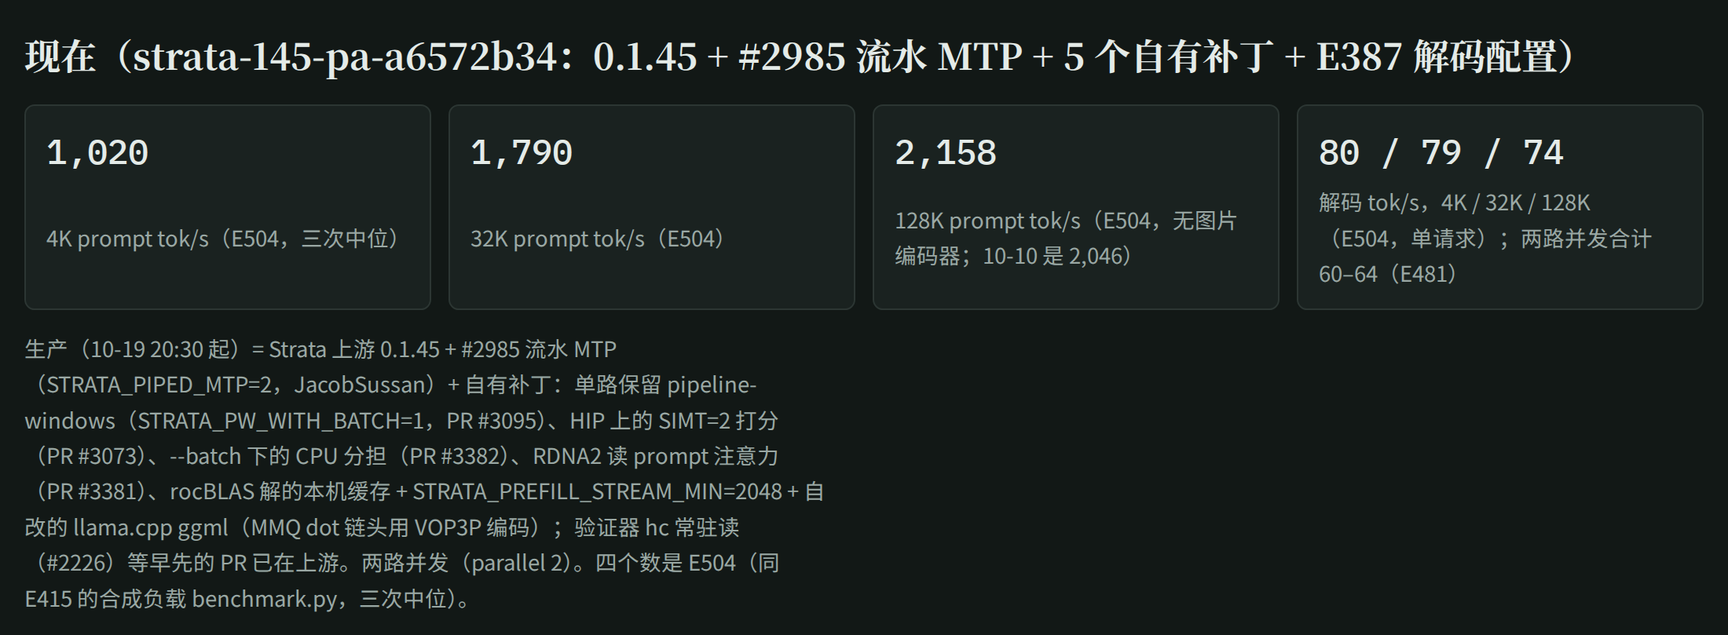
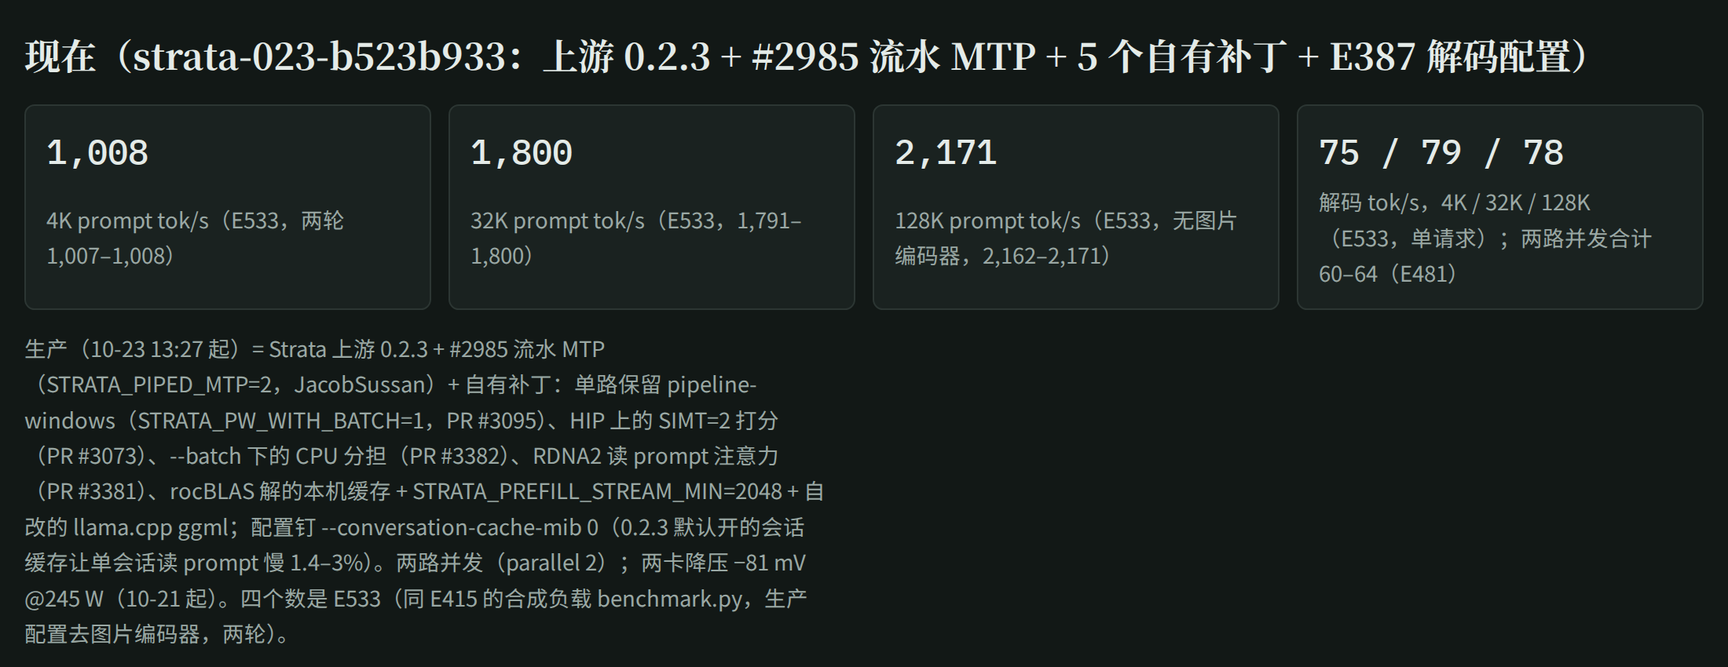
Now to 10-24: production on the 0.2.3 merge (strata-023-b523b933, E533), timeline 10-20..10-24; new section 5, one RX 6900 XT under Windows 11, with its step chart
- section 0 / the now cards / the speed chart: 0.2.1.3 (E516/E517), undervolt -81 mV (E523), 0.2.2 (E527), 0.2.3 with --conversation-cache-mib 0 (E533: 1,008 / 1,800 / 2,171, decode 75 / 79 / 78)
- section 5 (en / zh): WDDM per-submission cost (E541), the PCIe share (E538/E545/E547, #4007), the 8,192 chunk (E543/E548, #1630), copy events (E542/E544, #4005), the timer (#4006), VRAM reserve sweep (E553), the display, pictures (E554: the rdna2 package's GPU reader is built for gfx1200/1201 only), what did not help, mistakes
- docs/win1x-chart-*: the standard-benchmark runs of Strata PR #4012, step by step; index.html section and render target
- windows-rx6000/README.md: the GPU picture reader line

diff --git a/index.html b/index.html
@@ -73,20 +73,20 @@ code{font-family:var(--f-data);font-size:.92em}
 <body>
 <div class="wrap">
 <header>
-  <div class="eyebrow">AiBox · 2× RX 6900 XT · Qwen3.8-Flash-Next IQ3_S · 09-30 → 10-20</div>
+  <div class="eyebrow">AiBox · 2× RX 6900 XT · Qwen3.8-Flash-Next IQ3_S · 09-30 → 10-24</div>
   <h1>Flash-Next 调优时间线</h1>
   <p class="lede">同一个模型（IQ3_S）在这台机器上从 llama.cpp 换到 Strata，再一步步叠加改动。每一步写了当时为什么这么做和实测效果；虚线框是试过但没采用的方向。速度一律指双卡 layer split。</p>
 </header>
 
 <section>
-  <h2>现在（strata-145-pa-a6572b34：0.1.45 + #2985 流水 MTP + 5 个自有补丁 + E387 解码配置）</h2>
+  <h2>现在（strata-023-b523b933：上游 0.2.3 + #2985 流水 MTP + 5 个自有补丁 + E387 解码配置）</h2>
   <div class="now">
-    <div><b>1,020</b><small>4K prompt tok/s（E504，三次中位）</small></div>
-    <div><b>1,790</b><small>32K prompt tok/s（E504）</small></div>
-    <div><b>2,158</b><small>128K prompt tok/s（E504，无图片编码器；10-10 是 2,046）</small></div>
-    <div><b>80 / 79 / 74</b><small>解码 tok/s，4K / 32K / 128K（E504，单请求）；两路并发合计 60–64（E481）</small></div>
+    <div><b>1,008</b><small>4K prompt tok/s（E533，两轮 1,007–1,008）</small></div>
+    <div><b>1,800</b><small>32K prompt tok/s（E533，1,791–1,800）</small></div>
+    <div><b>2,171</b><small>128K prompt tok/s（E533，无图片编码器，2,162–2,171）</small></div>
+    <div><b>75 / 79 / 78</b><small>解码 tok/s，4K / 32K / 128K（E533，单请求）；两路并发合计 60–64（E481）</small></div>
   </div>
-  <p class="foot">生产（10-19 20:30 起）= Strata 上游 0.1.45 + #2985 流水 MTP（STRATA_PIPED_MTP=2，JacobSussan）+ 自有补丁：单路保留 pipeline-windows（STRATA_PW_WITH_BATCH=1，PR #3095）、HIP 上的 SIMT=2 打分（PR #3073）、--batch 下的 CPU 分担（PR #3382）、RDNA2 读 prompt 注意力（PR #3381）、rocBLAS 解的本机缓存 + STRATA_PREFILL_STREAM_MIN=2048 + 自改的 llama.cpp ggml（MMQ dot 链头用 VOP3P 编码）；验证器 hc 常驻读（#2226）等早先的 PR 已在上游。两路并发（parallel 2）。四个数是 E504（同 E415 的合成负载 benchmark.py，三次中位）。</p>
+  <p class="foot">生产（10-23 13:27 起）= Strata 上游 0.2.3 + #2985 流水 MTP（STRATA_PIPED_MTP=2，JacobSussan）+ 自有补丁：单路保留 pipeline-windows（STRATA_PW_WITH_BATCH=1，PR #3095）、HIP 上的 SIMT=2 打分（PR #3073）、--batch 下的 CPU 分担（PR #3382）、RDNA2 读 prompt 注意力（PR #3381）、rocBLAS 解的本机缓存 + STRATA_PREFILL_STREAM_MIN=2048 + 自改的 llama.cpp ggml；配置钉 --conversation-cache-mib 0（0.2.3 默认开的会话缓存让单会话读 prompt 慢 1.4–3%）。两路并发（parallel 2）；两卡降压 −81 mV @245 W（10-21 起）。四个数是 E533（同 E415 的合成负载 benchmark.py，生产配置去图片编码器，两轮）。</p>
 </section>
 
 <section>
@@ -111,6 +111,17 @@ code{font-family:var(--f-data);font-size:.92em}
   </div>
   <div class="panel"><div class="chart" id="modes"></div></div>
   <p class="foot">E388 / E388a，同一晚同一脚本，无图片编码器，每格 2 次取中位。单卡 16 GB 只装 ~4,500 个专家槽（命中 83%），解码压在 48–52；helper 让第二张卡只放专家，解码 66–75，prompt 仍是单卡速度；分层两项都提。helper 臂带 STRATA_HIP_ADAPT_KERNEL_COPY=1。</p>
+</section>
+
+<section>
+  <h2>Windows 单卡，一步步（IanLAB：RX 6900 XT 16 GB，i9-10900K，Windows 11）</h2>
+  <div class="legend">
+    <span><i class="dot" style="background:var(--l-stable)"></i>读 prompt，4K（tok/s，上图）</span>
+    <span><i class="dot" style="background:var(--l-prompt)"></i>读 prompt，16K（tok/s，上图）</span>
+    <span><i class="dot" style="background:var(--l-decode)"></i>解码，4K（tok/s，下图）</span>
+  </div>
+  <div class="panel"><div class="chart" id="win1x"></div>
+  <p class="foot">Strata 标准基准（strata bench run，三次中位，12/12），每一步一次完整运行，原始数据在社区报告 PR #4012。前六步都是官方 rdna2 包 0.1.48 原样，只改设置；最后一点（虚线）是 main + 拷贝事件补丁 #4005 自编，chunk 用 auto（6144），所以 16K 低于前一点的 8192。保留 700 MiB 那次换页、12 题 0/12，不在曲线上。</p></div>
 </section>
 
 <section>
@@ -154,6 +165,7 @@ const M=[
   {k:'0.1.42+MTP batch\n10-10',p4:985,p32:1792,p128:2046,d:81.9},
   {k:'0.1.43.1+PRs\n10-13',p4:975,p32:1782,p128:2033,d:81.6},
   {k:'0.1.45+补丁\n10-20',p4:1020,p32:1790,p128:2158,d:79.4},
+  {k:'0.2.3+补丁\n10-23',p4:1008,p32:1800,p128:2171,d:79.4},
 ];
 (function(){
   const W=860,H=372,L=56,R=110,T=16,B=84;
@@ -202,6 +214,34 @@ const M=[
   panel(0,'读 prompt tok/s（32K）',0,2000,v=>v.toLocaleString('en-US'));
   panel(PW+GAP,'解码 tok/s（32K）',1,90,v=>String(v));
   document.getElementById('modes').append(svg);
+})();
+
+// one RX 6900 XT under Windows 11, step by step (standard benchmark runs of PR #4012): prompt 4K / 16K, decode 4K
+(function(){
+  const W1=[
+    {k:'开箱默认',p4:452,p16:479,d:28.3},
+    {k:'显示器→核显',p4:445,p16:470,d:29.1},
+    {k:'保留 1536\n+ KV 常驻',p4:467,p16:489,d:33.3},
+    {k:'+ 开关组\n（去 SH_STREAM）',p4:591,p16:798,d:35.4},
+    {k:'+ Windows\nrocBLAS 表',p4:595,p16:799,d:35.5},
+    {k:'pcie-frac 0.2\n+ prefill 8192',p4:586,p16:1076,d:42.3},
+    {k:'main + #4005\n（chunk auto）',p4:793,p16:979,d:42.6},
+  ];
+  const W=860,H=470,L=56,R=24,PT=20,PB=250,DT=286,DB=380;   // prompt panel PT..PB, decode panel DT..DB, step labels below
+  const svg=el('svg',{viewBox:`0 0 ${W} ${H}`});
+  const xs=i=>L+40+(W-L-R-80)*i/(W1.length-1);
+  const yp=v=>PT+(PB-PT)*(1-v/1200), yd=v=>DT+(DB-DT)*(1-(v-20)/30);
+  [0,300,600,900,1200].forEach(v=>{svg.append(el('line',{x1:L,x2:W-R,y1:yp(v),y2:yp(v),stroke:'var(--rule)'}));svg.append(el('text',{x:L-6,y:yp(v)+4,'text-anchor':'end'},v.toLocaleString('en-US')));});
+  [20,30,40,50].forEach(v=>{svg.append(el('line',{x1:L,x2:W-R,y1:yd(v),y2:yd(v),stroke:'var(--rule)'}));svg.append(el('text',{x:L-6,y:yd(v)+4,'text-anchor':'end'},String(v)));});
+  svg.append(el('text',{x:L,y:PT-6,style:'font-size:11.5px'},'读 prompt tok/s'));
+  svg.append(el('text',{x:L,y:DT-8,style:'font-size:11.5px'},'解码 tok/s'));
+  W1.forEach((m,i)=>m.k.split('\n').forEach((ln,j)=>svg.append(el('text',{x:xs(i),y:DB+24+j*14,'text-anchor':'middle',style:'font-size:11px'},ln))));
+  [['p4','var(--l-stable)',yp,16],['p16','var(--l-prompt)',yp,-9],['d','var(--l-decode)',yd,-9]].forEach(([key,col,y,dy])=>{
+    W1.forEach((m,i)=>{if(i>0){const at={x1:xs(i-1),y1:y(W1[i-1][key]),x2:xs(i),y2:y(m[key]),stroke:col,'stroke-width':2}; if(i===W1.length-1) at['stroke-dasharray']='5 4'; svg.append(el('line',at));}});
+    W1.forEach((m,i)=>{svg.append(el('circle',{cx:xs(i),cy:y(m[key]),r:3.5,fill:col}));
+      svg.append(el('text',{x:xs(i),y:y(m[key])+dy,'text-anchor':'middle',style:`fill:${col};font-size:10.5px`},m[key].toLocaleString('en-US')));});
+  });
+  document.getElementById('win1x').append(svg);
 })();
 
 const LANES={engine:['引擎选择','var(--l-engine)'],prompt:['读 prompt','var(--l-prompt)'],decode:['解码','var(--l-decode)'],stable:['稳定性 #884','var(--l-stable)'],drop:['试过没采用','var(--l-drop)']};
@@ -264,6 +304,10 @@ const S=[
  ['10-19','22:15','drop','SeqMoE 式专家预取的上界（E499）','26.6 万条真实 agent 路由回放',[['现缓存命中 85%，高于全知静态集；完美的 8 窗预测器也不更好','down'],['杠杆是每窗换入量，不是预测','flat']]],
  ['10-20','03:10','engine','两个补丁按上游新规在 0.2.0 上复测并发 PR（E501–E503）','setup.py 构建、逐字节默认路径、ctest、10 对交错、FP64 参照质量门、CUDA 13.2 编译',[['#3381 −3.49%（10/10）、#3382 短读 −28.8%（10/10）','up'],['#3073 / #3095 在 0.2.0 上 −6.5% / +12~16%','up']]],
  ['10-13','20:10','engine','生产升 0.1.44（strata-144-hcpa-efa52cd1，E454/E455）','补丁合入只有 setup.py 一处冲突；用生产配置原样对现生产 A/B',[['32K 每窗 −1.4%（3/3），其余噪声内，0 停转','up'],['UD-Q4 槽不升：K-quant prompt 要 STRATA_MMQ_KQ=1，加后解码 −1.2%','flat']]],
+ ['10-20','16:40','engine','生产升 0.2.1.3（strata-0213-40d9a2dc，E516/E517）','上游 0.2.1.3 + #2985 移植 + 5 个自有补丁，生产配置原样 3 对 A/B',[['读 prompt −0.2~−0.8%、解码在噪声内，0 停转','flat'],['KL 0.034 / 0.029（旧 0.026）：逐段看是重分布不是变差','flat']]],
+ ['10-21','10:17','stable','两卡降压 −81 mV @245 W（E522/E523）','解码不随频率变（E507–E512），降压换温度和功耗',[['37 轮 0 次翻转；card1 到 −88 就有翻转','flat']]],
+ ['10-22','18:47','engine','生产升 0.2.2（strata-022-34cd8534，E527）','合并 v0.2.2，补丁、ggml、构建选项都不变',[['KL 0.028 / 0.030 对 0.031，持平；8 段里 7 段逐位相同','flat']]],
+ ['10-23','13:27','engine','生产升 0.2.3（strata-023-b523b933，E533）','合并 v0.2.3；它把会话缓存改成默认按内存自动开',[['自动缓存让单会话读 prompt −3% / −1.4%，配置钉 --conversation-cache-mib 0','down'],['钉住后 1,008 / 1,800 / 2,171、解码 75 / 79 / 78，与 022 持平','flat']]],
 ];
 const on=new Set(Object.keys(LANES));
 const F=document.getElementById('filters');

diff --git a/tools/render_charts.py b/tools/render_charts.py
@@ -5,7 +5,7 @@
 
 Each image is index.html with only one section left, a fixed theme (data-theme), and for English the section's Chinese
 strings replaced from en.json ({"中文": "English", ...}). Output: docs/now-{en,zh}-{light,dark}.png and
-docs/speed-chart-en-{light,dark}.png and docs/speed-chart-{light,dark}.png (Chinese) (2200 px wide, device scale 2.2); OUT=dir writes them elsewhere."""
+docs/speed-chart-en-{light,dark}.png and docs/speed-chart-{light,dark}.png (Chinese), docs/win1x-chart-{en,zh}-{light,dark}.png (2200 px wide, device scale 2.2); OUT=dir writes them elsewhere."""
 import json, os, re, subprocess, sys, tempfile
 
 ROOT = os.path.dirname(os.path.dirname(os.path.abspath(__file__)))
@@ -15,7 +15,8 @@ EN = json.load(open(sys.argv[1], encoding="utf-8")) if len(sys.argv) > 1 else {}
 SRC = open(os.path.join(ROOT, "index.html"), encoding="utf-8").read()
 # target -> (index of the <section> to keep, CSS width in px, extra CSS); the height is trimmed to the content afterwards
 TARGETS = {"now": (0, 1000, ""),
-           "speed-chart": (1, 1000, "section h2,section .panel+.foot,section p.foot{display:none!important}")}
+           "speed-chart": (1, 1000, "section h2,section .panel+.foot,section p.foot{display:none!important}"),
+           "win1x-chart": (3, 1000, "section h2,section .panel+.foot,section p.foot,section .panel .foot{display:none!important}")}
 
 def page(section, theme, lang, extra):
     html = SRC.replace('<html lang="zh-CN">', f'<html lang="{"en" if lang == "en" else "zh-CN"}" data-theme="{theme}">')

diff --git a/README.md b/README.md
@@ -11,12 +11,12 @@
 
 <picture>
   <source media="(prefers-color-scheme: dark)" srcset="docs/speed-chart-en-dark.png">
-  <img alt="Prompt and decode speed, step by step, llama.cpp 10-02 to Strata 0.1.45 + patches 10-20" src="docs/speed-chart-en-light.png" width="100%">
+  <img alt="Prompt and decode speed, step by step, llama.cpp 10-02 to Strata 0.2.3 + patches 10-23" src="docs/speed-chart-en-light.png" width="100%">
 </picture>
 
-*Prompt tok/s at 4K, 32K–37K and 128K (left axis) and decode tok/s (right axis) at each production state. Points come from different experiments under slightly different conditions (the 4K points of the first two steps are 5K prompts; the last point is E504, the E415 load on the 10-20 production; the notes under the chart on the interactive page list the rest); a dashed segment bridges a step where that metric was not measured.*
+*Prompt tok/s at 4K, 32K–37K and 128K (left axis) and decode tok/s (right axis) at each production state. Points come from different experiments under slightly different conditions (the 4K points of the first two steps are 5K prompts; the last two points are E504 and E533, the E415 load on the 10-20 and 10-23 productions; the notes under the chart on the interactive page list the rest); a dashed segment bridges a step where that metric was not measured.*
 
-Tuning log for **Qwen3.8-Flash-Next (GSQ-RCO IQ3_S)** on a home box with **2x AMD RX 6900 XT (gfx1030, PCIe 4.0 x8 each) / Ryzen 5 5600X / 128 GB DDR4**, ROCm 10.0 — from llama.cpp to [Strata](https://github.com/Niko1221/Strata), 2026-09-21 → 10-20. Experiment numbers (E…) refer to the author's lab notebook (not public). Every number is measured on this machine unless marked as an estimate.
+Tuning log for **Qwen3.8-Flash-Next (GSQ-RCO IQ3_S)** on a home box with **2x AMD RX 6900 XT (gfx1030, PCIe 4.0 x8 each) / Ryzen 5 5600X / 128 GB DDR4**, ROCm 10.0 — from llama.cpp to [Strata](https://github.com/Niko1221/Strata), 2026-09-21 → 10-24; plus one RX 6900 XT under Windows 11 ([section 5](#5-one-rx-6900-xt-under-windows)). Experiment numbers (E…) refer to the author's lab notebook (not public). Every number is measured on this machine unless marked as an estimate.
 
 **`patches/llama.cpp/`** — eight llama.cpp patches on upstream `159c651f5`: 1–7 are the RDNA2 MMQ work behind the `q8k ggml` step (wider tiles, mad24 scales, Q8_K-style activations, VOP3P dot-chain heads), 8 is an int8 QK^T flash-attention tile kernel for a q8_0 K cache; build flags and measured effects in [their README](patches/llama.cpp/README.md). Strata picks the MMQ ones up through `-DSTRATA_GGML_DIR`. They were made on the dense **Qwen3.8-27B** that the same two cards serve through llama.cpp — that line of work is in [section 4](#4-the-dense-27b-on-the-same-box-qwen38-27b-ud-q5_k_xl-on-llamacpp-qwen38-tp).
 
@@ -38,8 +38,8 @@ Tuning log for **Qwen3.8-Flash-Next (GSQ-RCO IQ3_S)** on a home box with **2x AM
 
 ## 0. Where it stands
 
-- **Production (since 10-19 20:30):** `strata-145-pa-a6572b34` = Strata upstream **0.1.45** + #2985's pipelined MTP (`STRATA_PIPED_MTP=2`, JacobSussan) + five patches of ours: the solo path keeps `--pipeline-windows` beside batch slots (`STRATA_PW_WITH_BATCH=1`, [#3095](https://github.com/Niko1221/Strata/pull/3095)), #2071's SIMT=2 scorer on HIP ([#3073](https://github.com/Niko1221/Strata/pull/3073)), the prompt's CPU share beside `--batch` (`STRATA_PREFILL_CPU_SHARE_BATCH=1`, [#3382](https://github.com/Niko1221/Strata/pull/3382)), a gfx103x prompt-attention kernel (`STRATA_PROMPT_ATTN_RDNA2=1`, [#3381](https://github.com/Niko1221/Strata/pull/3381)), a per-device rocBLAS solution cache; plus `STRATA_PREFILL_STREAM_MIN=2048` and the modified llama.cpp ggml (MMQ dot-chain heads in VOP3P). The earlier PRs (#1149, #1151, #1167, #1992, #2226) are in upstream main. Two parallel slots (`"parallel": 2`), layer split, IQ3_S experts, int8 KV, `--spec 3 --spec-min-p 0.7 --pipeline-windows 2`. Rollback slot `strata-split-prev` = the same without the attention kernel.
-- **Speed (E504, the E415 load, no vision encoder, median of 3):** prompt **1,020 / 1,790 / 2,158** tok/s at 4K / 32K / 128K (E415 on 10-10: 985 / 1,792 / 2,046), decode **80 / 79 / 74** for one request; two requests at once 60–64 tok/s together (E481), a second request's first token 0.5 s instead of 12 s (E463–E470). Short prompts: a 430-token read 1.1 s (was 1.7 s, E493). Upstream **0.2.0-beta** stock on the same box and settings (E503, community report [#3426](https://github.com/Niko1221/Strata/pull/3426)): 979 / 1,662 tok/s at 4K / 32K with its own suite, 1,893 at 119K real text, decode 66 for one request - our patches are the difference (each re-measured on 0.2.0 in the PRs above).
+- **Production (since 10-23 13:27):** `strata-023-b523b933` = Strata upstream **0.2.3** (merged into the 0.2.2 production, no conflicts) + #2985's pipelined MTP (`STRATA_PIPED_MTP=2`, JacobSussan) + five patches of ours: the solo path keeps `--pipeline-windows` beside batch slots (`STRATA_PW_WITH_BATCH=1`, [#3095](https://github.com/Niko1221/Strata/pull/3095)), #2071's SIMT=2 scorer on HIP ([#3073](https://github.com/Niko1221/Strata/pull/3073)), the prompt's CPU share beside `--batch` (`STRATA_PREFILL_CPU_SHARE_BATCH=1`, [#3382](https://github.com/Niko1221/Strata/pull/3382)), a gfx103x prompt-attention kernel (`STRATA_PROMPT_ATTN_RDNA2=1`, [#3381](https://github.com/Niko1221/Strata/pull/3381)), a per-device rocBLAS solution cache; plus `STRATA_PREFILL_STREAM_MIN=2048` and the modified llama.cpp ggml (MMQ dot-chain heads in VOP3P). The config pins `--conversation-cache-mib 0`: 0.2.3 turns a conversation cache on by default, and it read a single session's prompts 3% / 1.4% slower at 4K / 32K-128K here (E533). Two parallel slots (`"parallel": 2`), layer split, IQ3_S experts, int8 KV, `--spec 3 --spec-min-p 0.7 --pipeline-windows 2`; both cards undervolted −81 mV at 245 W since 10-21 (E522/E523: 37 rounds without a flipped token; decode does not follow the clock, E507-E512). Rollback slot `strata-split-prev` = the 0.2.2 merge (`strata-022-34cd8534`). Since 10-20 the engine moved 0.1.45 → 0.2.1.3 (E516/E517) → 0.2.2 (E527) → 0.2.3 (E533), each step speed- and KL-neutral against the one before.
+- **Speed (E533, the E415 load, the production config without the vision encoder, two rounds):** prompt **1,008 / 1,800 / 2,171** tok/s at 4K / 32K / 128K (E504 on the 10-20 production: 1,020 / 1,790 / 2,158; E415 on 10-10: 985 / 1,792 / 2,046), decode **75 / 79 / 78** for one request (E504: 80 / 79 / 74); two requests at once 60–64 tok/s together (E481), a second request's first token 0.5 s instead of 12 s (E463–E470). Short prompts: a 430-token read 1.1 s (was 1.7 s, E493). Upstream **0.2.0-beta** stock on the same box and settings (E503, community report [#3426](https://github.com/Niko1221/Strata/pull/3426)): 979 / 1,662 tok/s at 4K / 32K with its own suite, 1,893 at 119K real text, decode 66 for one request - our patches are the difference (each re-measured on 0.2.0 in the PRs above).
 - **Whole journey, same IQ3_S model:** decode 26 → ~80 tok/s (≈3×), 32K–37K prompt 274 → 1,790 tok/s (≈6.5×), 128K 821 (0.1.39) → 2,158. The engine switch (llama.cpp → Strata) is most of it; the patches and configuration after that roughly doubled the prompt (37K 714 → 1,433 → 1,705; 32K 1,790 and 128K 2,158 on 10-20) and added about +40% decode (56–58 → 80).
 - **Closed directions (measured; do not retry on this box):** every decode-side configuration knob — `--kv-resident` shrink (E382), `--pipeline-windows 2` alone (E384, +1–6%), the 16-point `--spec` × `--spec-min-p` grid at `--pipeline-windows 1` (E385, 4/0.5 is the peak of accepted tokens per window) — **but the combination works**: `--spec 3 --spec-min-p 0.7 --pipeline-windows 2` decodes +10–16% at 4K and +8–11% at 32K (E387, three confirmation rounds; the short draft is accepted 83% of the time instead of 68%, so the speculative second window hits). Prompt speed unchanged; output differs between starts (the baseline is deterministic); 128K +11% in the no-vision-encoder configuration (E388); in production since 10-09 00:16; batch slots as evaluated on 10-08 (resident experts 41% < upstream's 50% gate, slots decode without MTP; **overturned 10-15**: with slot drafts, the solo path kept pipelined and later #2985, `"parallel": 2` is production); MMQ tile / stream-K for IQ3_S (E279/E280); `--prefill` chunks other than 8192 (E296); tensor parallel (E234, +6%); and the upstream opt-ins that upstream itself measured as neutral or negative on small cards (chunked GDN, Foresight swap slots, pinned stage buffers).
 - **What is left:** the PCIe topology for long prompts (x8/x8 kept: on Strata a long prompt waits on PCIe only 0.2–0.7% of the time, but a <2K one 43–54%, E482); more expert swaps per decode window (E499: the adaptive cache already hits 85%, a perfect 8-window predictor would not beat it at today's swap rate - the swap budget is the lever, untested). Four PRs wait for upstream review on 0.2.0-beta (#3381, #3382, and #3073 / #3095 reopened 10-20 with the E503 numbers).
@@ -158,6 +158,11 @@ The numbers in the charts (the phases are estimates, the totals measured; prompt
 | 10-19 20:30 | `STRATA_PROMPT_ATTN_RDNA2=1` (ours, E495–E498e): gfx103x's prompt attention ran the decode kernel (64-cell splits + merge); one block per (query, KV head), online softmax, 4 dimensions per thread in the value phase | QSA attention per 8,192-token chunk 500 → 355 ms, 34K / 133K prompt −3.5%; quality gate (8 chats against an FP64-attention reference) not worse; production `strata-145-pa-a6572b34`; PR #3381 |
 | 10-19 22:15 | SeqMoE-style expert prefetch, upper bound first (E499): 266K routing records of four real agent conversations replayed against cache policies | the adaptive cache already hits 85.3 / 85.1% (above the best static set); a perfect 8-window predictor at the engine's swap rate would not beat it - dropped; more swaps per window, not prediction, is the lever (untested) |
 | 10-20 | the patches re-measured on 0.2.0 main as upstream's new rules ask (E501–E502): setup.py build options, default path byte-identical, ctest against main, 10 interleaved cold-start pairs, FP64-reference quality gate, CUDA 13.2 compile | RDNA2 attention −3.49% at 31K and 119K (10/10 each); CPU share with --batch −28.8% under 2,048 tokens (10/10); sent as #3381 / #3382; #3073 −6.5% at 119K and #3095 +12–16% single-stream decode on 0.2.0 (10/10 each, E503) |
+| 10-20 16:40 | production → upstream 0.2.1.3 + #2985 port + our five patches (`strata-0213-40d9a2dc`, E516/E517) | prompt −0.2 to −0.8%, decode within noise, 0 stalls; KL 0.034 / 0.029 against 0.026 (per chat a redistribution, not a loss) |
+| 10-21 10:17 | both cards undervolted −81 mV at 245 W (E522/E523) | 37 rounds without a flipped token (card1 at −88 flipped); decode does not follow the clock (E507–E512) |
+| 10-22 18:47 | production → 0.2.2 merge (`strata-022-34cd8534`, E527) | KL 0.028 / 0.030 against 0.031, 7 of 8 chats bit-identical; speed flat |
+| 10-23 13:27 | production → 0.2.3 merge (`strata-023-b523b933`, E533) with `--conversation-cache-mib 0` | 0.2.3's default conversation cache read single-session prompts 3% / 1.4% slower; pinned off: 1,008 / 1,800 / 2,171, decode 75 / 79 / 78, equal to 0.2.2 |
+| 10-24 | one RX 6900 XT under Windows 11 ([section 5](#5-one-rx-6900-xt-under-windows)) | the official package with measured settings: 16K prompt 479 → 1,076, decode 28 → 42, 12/12; PRs [#4005](https://github.com/Niko1221/Strata/pull/4005), [#4006](https://github.com/Niko1221/Strata/pull/4006), report [#4012](https://github.com/Niko1221/Strata/pull/4012) |
 
 ## 2. What was learned about the mechanisms
 
@@ -252,7 +257,39 @@ No block is both large and cheap: MMVQ is at the bandwidth wall, the gaps need f
 - Under rocprofv3, `llama-server` ignores SIGINT/SIGTERM (the tracer's handler); the trace database had already been written, and 30 minutes were spent waiting. SIGKILL after the database appears.
 - E411's falsification criterion ("kernel time < 60% of wall time") was met and still did not answer "which block to cut"; the criterion should have been "largest block ≥30% and ≥25% from its hardware limit".
 
-## 5. Repository contents
+## 5. One RX 6900 XT under Windows
+
+<picture>
+  <source media="(prefers-color-scheme: dark)" srcset="docs/win1x-chart-en-dark.png">
+  <img alt="One RX 6900 XT under Windows 11, step by step: prompt 4K and 16K, decode 4K, from Strata's defaults to the measured settings and #4005" src="docs/win1x-chart-en-light.png" width="100%">
+</picture>
+
+*Strata's standard benchmark (`strata bench run`, medians of three, 12/12 sanity at every step), one complete run per step; the runs are in Strata PR [#4012](https://github.com/Niko1221/Strata/pull/4012). The first six steps are the official `rdna2` engine package 0.1.48 unchanged; the dashed last step is `main` + [#4005](https://github.com/Niko1221/Strata/pull/4005) built on the PC, at the auto chunk (6,144), so its 16K is below the 8,192-chunk step before it.*
+
+A second box (IanLAB: i9-10900K, 64 GB DDR4-3600, one RX 6900 XT 16 GB on PCIe 3.0 x16, Windows 11, the same IQ3_S model, 64K context), 10-23 → 10-24. Since 0.2.2 Strata's update feed carries a Windows engine package for RX 6000 cards (`windows-x86_64-hip-rdna2`), "built but untried" in the release notes; this is it on a real card. **A no-compile setup with the settings below: [`windows-rx6000/`](windows-rx6000/)** (the official Terminal, the official package, a saved `strata launch` preset).
+
+**Where it ended (standard benchmark, official package, settings only):** prompt 4K / 16K **452 / 479 → 586 / 1,076** tok/s, decode **28 → 42** tok/s, first token on a short prompt 2.8 → 1.1 s, 12/12. With #4005 on top, 4K reads at 793. Against Linux on the same card model (E540, one card): Windows was 582 / 811 prompt (4K / 32K) and 36.9 decode against Linux 944 / 1,160 and 47.4; after this work 32K reads at 1,163 against Linux 1,165 (8,192 chunk, a local build with the copy-event patch and #3381 / #3073), and decode 43–47.
+
+**What was measured, in the order it mattered**
+
+- **Every submission costs ~80–120 µs under WDDM (E541).** A HIP probe on the two OSes, same card model: back-to-back 2.79 MB copies are no slower on Windows (12.5 against 14.1 GB/s, 5.5 µs fixed per copy), but each `cudaEventRecord` on the copy stream adds 79 µs (Linux 3), each cross-stream wait 43 µs (Linux ~0), and one copy plus its host-function signal takes ~120 µs longer end to end; a kernel launched without a following query does not even reach the GPU. Hardware-accelerated GPU scheduling, which would shorten this, is `AlwaysOff` in the RX 6000 driver. Everything below is this cost, met in different places.
+- **Decode: the PCIe share (E538, E545, E547).** The start-up rule sets the share of missed experts read over PCIe from the link alone (12.6 GB/s → 0.35). Swept 0 / 0.1 / 0.2 / 0.3 / 0.35: 0.2 is the single peak, decode **+29%**. Strata's own refinement (`STRATA_PCIE_FRAC_DEFAULT=auto`, default only on gfx12) lands on 0.20 by itself, because this CPU computes experts faster (29.4 GB/s) than the link moves them; on the Linux box it does the same and decodes +1–2%. Proposed as the gfx103x default in [#4007](https://github.com/Niko1221/Strata/issues/4007).
+- **Long prompts: the chunk (E543, E548).** On Windows HIP `--prefill auto` stops at 6,144 because 8,192 crashed an RX 7900 XTX at 262K context ([#1630](https://github.com/Niko1221/Strata/issues/1630)). Here 8,192 ran clean in six cold starts, three of them at `--max-context 262144` with 27K and 100K prompts; 32K reads **+17%** (6 streamed passes become 4).
+- **Short prompts: copy events (E542, E544).** The prompt path recorded one event and waited on one release event per streamed expert, though the consumer waits once per 16-expert group. Two opt-in switches remove 15 of 16: **4K +36.4%, 32K +14.9%, 10/10 pairs**; on Linux output byte-identical and speed unchanged. PR [#4005](https://github.com/Niko1221/Strata/pull/4005).
+- **VRAM reserve.** On a 16 GB card Windows keeps 2,560 MiB free by default; what is left after the load is the reserve minus ~250–340 MiB, and every run that ended below ~1 GiB paged (700: 0/12 sanity). 1,536 is the lowest stable value. More headroom costs little at first: each extra 512 MiB is ~265 fewer expert slots; 2,048 read prompts 1% slower with decode unchanged within noise, 2,560 decoded 32K 6–8% slower, 3,072 decoded 7% (4K) and 9–13% (32K) slower (E553, two runs each).
+- **The display.** Two 4K monitors on the card held 2.2 GB of its VRAM (the compositor); moved to the iGPU, the expert cache grew from 3,121 to 3,672 slots at the same reserve, and after a reboot only the engine sits on the card. A browser playing video during a run cut decode by a third.
+- **Pictures.** The package ships the picture reader; the CPU reader read a test image correctly in 4–5 s. The GPU reader in the same package (`strata-vision-hip.exe`) is built for gfx1200 / gfx1201 only: with `gpu: true` it stops with `this GPU (gfx1030) is not in the picture reader's build (gfx1200,gfx1201)`, and the server exits instead of falling back to the CPU reader (E554). On RX 6000 use `--vision cpu`.
+- **What did not help:** large pages (64 GB of RAM cannot give 47 GB of contiguous 2 MB pages, error 1450); a rocBLAS table tuned under Linux (refused at run time on Windows; one tuned on Windows helps only prompts under ~1K new tokens, −7.6%); `STRATA_SH_STREAM` (slower decode on Windows, and with KV streaming it stopped the engine, [#3895](https://github.com/Niko1221/Strata/pull/3895)); building the engine locally (same speed as the package, E537).
+
+**Mistakes on this line (kept so they are not repeated)**
+
+- Read `STRATA_PREFILL_TIMING` as the truth for a day: its own per-expert event records cost 8% of a 32K read on Windows and charged ~3.3 s of copy waits to "dequant". The fix is [#4006](https://github.com/Niko1221/Strata/pull/4006); before it, "dequant is 3× slower on Windows" was a measurement artifact.
+- Guessed that `--prefill auto` stopped at 6,144 because the card had too few slots to lend; the engine prints the reason (#1630) on start. Read the code (or the log) before explaining a number.
+- Explained the decode gap with the expert-slot count (E535–E537), then with WDDM latency missing from the share formula (E541); the measured answer was that the start-up share ignores how fast the CPU is (E545).
+- Three arms of one A/B were taken while a video played on the PC (decode −33%); now the runs start after checking that nobody is using the machine.
+- Configured the GPU picture reader without `gpu: true`, saw it run on the CPU and blamed the 16 GB of VRAM; the reader only uses the GPU when told to, and when told to it showed the real limit: it is not built for gfx1030.
+
+## 6. Repository contents
 
 - `index.html` — the interactive timeline (speed chart of every production state + every step with reason and effect; Chinese; Flash-Next only).
 - `bench/results/e410`, `e411`, `e412` — the 27B raw material: the P/F cold-start A/B of patch 8 (scripts, report, KLD/perf run), the rocprofv3 decode pies and gap analysis (scripts and their text output; the 300–800 MB trace databases are not included), the old/new short-context check.

diff --git a/README.zh-CN.md b/README.zh-CN.md
@@ -11,12 +11,12 @@
 
 <picture>
   <source media="(prefers-color-scheme: dark)" srcset="docs/speed-chart-dark.png">
-  <img alt="读 prompt 与解码速度逐步变化：llama.cpp 10-02 到 Strata 0.1.45 + 补丁 10-20" src="docs/speed-chart-light.png" width="100%">
+  <img alt="读 prompt 与解码速度逐步变化：llama.cpp 10-02 到 Strata 0.2.3 + 补丁 10-23" src="docs/speed-chart-light.png" width="100%">
 </picture>
 
-*各生产状态的读 prompt（4K、32K–37K、128K，左轴）和解码（右轴）tok/s。各点来自不同实验、条件不完全相同（前两步的 4K 点是 5K prompt；最后一点是 E504，即 10-20 的生产跑 E415 同款负载；其余见交互页图下说明）；虚线段表示那一步没测这个指标。*
+*各生产状态的读 prompt（4K、32K–37K、128K，左轴）和解码（右轴）tok/s。各点来自不同实验、条件不完全相同（前两步的 4K 点是 5K prompt；最后两点是 E504 和 E533，即 10-20 和 10-23 的生产跑 E415 同款负载；其余见交互页图下说明）；虚线段表示那一步没测这个指标。*
 
-在一台家用机器（**2× AMD RX 6900 XT，gfx1030，各 PCIe 4.0 x8 / Ryzen 5 5600X / 128 GB DDR4**，ROCm 10.0）上跑 **Qwen3.8-Flash-Next（GSQ-RCO IQ3_S）** 的调优记录，从 llama.cpp 到 [Strata](https://github.com/Niko1221/Strata)，2026-09-21 → 10-20。
+在一台家用机器（**2× AMD RX 6900 XT，gfx1030，各 PCIe 4.0 x8 / Ryzen 5 5600X / 128 GB DDR4**，ROCm 10.0）上跑 **Qwen3.8-Flash-Next（GSQ-RCO IQ3_S）** 的调优记录，从 llama.cpp 到 [Strata](https://github.com/Niko1221/Strata)，2026-09-21 → 10-24；另有一张 RX 6900 XT 在 Windows 11 上的调优（[第 5 节](#5-windows-单卡rx-6900-xt)）。
 
 `patches/llama.cpp/` 是基于上游 `159c651f5` 的 8 个 llama.cpp 补丁：1–7 是时间线里 `q8k ggml` 那一步背后的 RDNA2 MMQ 工作（更宽的 tile、mad24 缩放、Q8_K 式激活、dot 链头 VOP3P），8 是 q8_0 K cache 的 int8 QK^T flash-attention tile 内核；编译选项和实测见[其 README](patches/llama.cpp/README.md)（英文）；Strata 通过 `-DSTRATA_GGML_DIR` 吃到 MMQ 那几个。这些补丁都是在同一台机器用 llama.cpp 跑的稠密 **Qwen3.8-27B** 上做出来的，那条线见[第 4 节](#4-同一台机器上的稠密-27bqwen38-27bud-q5_k_xlllamacpp-qwen38-tp)。
 
@@ -51,8 +51,8 @@ AiBox：2× RX 6900 XT（gfx1030，各 PCIe 4.0 x8）/ Ryzen 5 5600X / 128 GB，
 
 ## 0. 结论（先看这里）
 
-- **生产（10-19 20:30 起）**：`strata-145-pa-a6572b34` = Strata 上游 **0.1.45** + #2985 的流水 MTP（`STRATA_PIPED_MTP=2`，JacobSussan）+ 我们的 5 个补丁：开批槽时单路保留 `--pipeline-windows`（`STRATA_PW_WITH_BATCH=1`，[#3095](https://github.com/Niko1221/Strata/pull/3095)）、HIP 上接通 #2071 的 SIMT=2 打分（[#3073](https://github.com/Niko1221/Strata/pull/3073)）、`--batch` 下读 prompt 也用 CPU 分担（`STRATA_PREFILL_CPU_SHARE_BATCH=1`，[#3382](https://github.com/Niko1221/Strata/pull/3382)）、gfx103x 读 prompt 注意力内核（`STRATA_PROMPT_ATTN_RDNA2=1`，[#3381](https://github.com/Niko1221/Strata/pull/3381)）、rocBLAS 解的本机缓存；外加 `STRATA_PREFILL_STREAM_MIN=2048` 和自改的 llama.cpp ggml。之前的 PR（#1149、#1151、#1167、#1992、#2226）已在上游 main。两路并发（`"parallel": 2`）、双卡分层、IQ3_S 专家、int8 KV、`--spec 3 --spec-min-p 0.7 --pipeline-windows 2`。回退槽 `strata-split-prev` = 去掉注意力内核的同一套。
-- **现在的速度**（E504，E415 同款负载，无图片编码器，三次中位）：prompt **1,020 / 1,790 / 2,158** tok/s（4K / 32K / 128K；10-10 的 E415 是 985 / 1,792 / 2,046），单请求解码 **80 / 79 / 74**；两个请求同时跑合计 60–64 tok/s（E481），第二个请求首字 12 s → 0.5 s（E463–E470）。短 prompt：430 token 读 1.1 s（原来 1.7 s，E493）。同一台机器、同样设置下的上游 **0.2.0-beta** 原版（E503，社区报告 [#3426](https://github.com/Niko1221/Strata/pull/3426)）：自带套件 4K / 32K 979 / 1,662 tok/s，真实文本 119K 1,893，单请求解码 66——差距就是我们的补丁（每个都在上面的 PR 里用 0.2.0 重测过）。
+- **生产（10-23 13:27 起）**：`strata-023-b523b933` = Strata 上游 **0.2.3**（合并进 0.2.2 生产，无冲突）+ #2985 的流水 MTP（`STRATA_PIPED_MTP=2`，JacobSussan）+ 我们的 5 个补丁：开批槽时单路保留 `--pipeline-windows`（`STRATA_PW_WITH_BATCH=1`，[#3095](https://github.com/Niko1221/Strata/pull/3095)）、HIP 上接通 #2071 的 SIMT=2 打分（[#3073](https://github.com/Niko1221/Strata/pull/3073)）、`--batch` 下读 prompt 也用 CPU 分担（`STRATA_PREFILL_CPU_SHARE_BATCH=1`，[#3382](https://github.com/Niko1221/Strata/pull/3382)）、gfx103x 读 prompt 注意力内核（`STRATA_PROMPT_ATTN_RDNA2=1`，[#3381](https://github.com/Niko1221/Strata/pull/3381)）、rocBLAS 解的本机缓存；外加 `STRATA_PREFILL_STREAM_MIN=2048` 和自改的 llama.cpp ggml。配置钉 `--conversation-cache-mib 0`：0.2.3 默认按内存自动开会话缓存，本机单会话读 prompt 因此 4K 慢 3%、32K–128K 慢 1.4%（E533）。两路并发（`"parallel": 2`）、双卡分层、IQ3_S 专家、int8 KV、`--spec 3 --spec-min-p 0.7 --pipeline-windows 2`；10-21 起两卡降压 −81 mV @245 W（E522/E523：37 轮 0 次翻转；解码不随频率变，E507–E512）。回退槽 `strata-split-prev` = 0.2.2 合并版（`strata-022-34cd8534`）。10-20 以来引擎 0.1.45 → 0.2.1.3（E516/E517）→ 0.2.2（E527）→ 0.2.3（E533），每一步速度和 KL 都与上一版持平。
+- **现在的速度**（E533，E415 同款负载，生产配置去图片编码器，两轮）：prompt **1,008 / 1,800 / 2,171** tok/s（4K / 32K / 128K；10-20 生产的 E504 是 1,020 / 1,790 / 2,158，10-10 的 E415 是 985 / 1,792 / 2,046），单请求解码 **75 / 79 / 78**（E504：80 / 79 / 74）；两个请求同时跑合计 60–64 tok/s（E481），第二个请求首字 12 s → 0.5 s（E463–E470）。短 prompt：430 token 读 1.1 s（原来 1.7 s，E493）。同一台机器、同样设置下的上游 **0.2.0-beta** 原版（E503，社区报告 [#3426](https://github.com/Niko1221/Strata/pull/3426)）：自带套件 4K / 32K 979 / 1,662 tok/s，真实文本 119K 1,893，单请求解码 66——差距就是我们的补丁（每个都在上面的 PR 里用 0.2.0 重测过）。
 - **从 llama.cpp 到 Strata 的总账**（同一份 IQ3_S）：解码 26 → 约 80 tok/s（≈3×），32K–37K prompt 274 → 1,790（≈6.5×），128K 821（0.1.39）→ 2,158。其中换引擎占大头，之后我们的补丁和配置让 prompt 大约翻倍（37K 714 → 1,433 → 1,705；10-20 的 32K 1,790、128K 2,158），解码约 +40%（56–58 → 80）。
 - **已经到地板的（别再试）**：解码的配置级杠杆**单独调**全部否定——`--kv-resident` 缩小（E382）、单开 `--pipeline-windows 2`（E384，+1–6%）、pipeline-windows 1 下的 `--spec`/`--spec-min-p` 16 点网格（E385/b，4/0.5 是峰值）；**但组合有效**：`--spec 3 --spec-min-p 0.7 --pipeline-windows 2` 解码 4K +10–16%、32K +8–11%（E387，三轮确认；短草稿接受率 83% vs 68%，第二窗的推测才命中），prompt 不变，输出跨启动不确定（基线是确定的），128K 在无编码器配置下 +11%（E388）；10-09 00:16 上生产；并发批槽（10-08 结论：常驻专家 41% < 上游门槛 50%，槽里不带 MTP；**10-15 推翻**：加上槽位草稿、单路保留流水窗口和后来的 #2985，`"parallel": 2` 已是生产）；IQ3_S 的 MMQ 分块/stream-K（E279/E280）；`--prefill` chunk 8192 即甜点（E296）；上游的 GDN 分块、Foresight、STAGE_PIN（上游自测对小卡无益或有害）。
 - **还有空间的**：长 prompt 的 PCIe 拓扑（保持 x8/x8：Strata 上长 prompt 等 PCIe 只占 0.2–0.7%，但 <2K 的短 prompt 占 43–54%，E482）；解码时每窗多换入专家（E499：自适应缓存命中已 85%，完美的 8 窗预测器在现在的换入量下也不更好——杠杆是换入预算，未测）。四个 PR 在 0.2.0-beta 上等上游审（#3381、#3382，以及 10-20 带 E503 数据重开的 #3073 / #3095）。
@@ -171,6 +171,11 @@ AiBox：2× RX 6900 XT（gfx1030，各 PCIe 4.0 x8）/ Ryzen 5 5600X / 128 GB，
 | 10-19 20:30 | `STRATA_PROMPT_ATTN_RDNA2=1`（我们的，E495–E498e）：gfx103x 读 prompt 的注意力借用解码内核（64 单元切块 + 合并）；改为每（查询，KV 头）一个 block、在线 softmax、加权阶段每线程 4 维 | 每 8,192 token 块注意力 500 → 355 ms，34K / 133K −3.5%；质量门（8 段对 FP64 注意力参照）不劣；生产 `strata-145-pa-a6572b34`；PR #3381 |
 | 10-19 22:15 | SeqMoE 式专家预取先测上界（E499）：4 段真实 agent 对话的 26.6 万条路由记录回放 | 自适应缓存命中已 85.3 / 85.1%（高于全知静态集）；按现在的换入量，完美的 8 窗预测器也不更好——放弃；杠杆是每窗换入量（未测） |
 | 10-20 | 补丁按上游新规在 0.2.0 main 上复测（E501–E503）：setup.py 构建、默认路径逐字节、ctest 对照 main、10 对交错冷启动、FP64 参照质量门、CUDA 13.2 编译 | RDNA2 注意力 31K / 119K −3.49%（各 10/10）；CPU 分担 <2048 −28.8%（10/10）；送 #3381 / #3382。#3073 在 0.2.0 上 119K −6.5%，#3095 单路解码 +12~16%（各 10/10，E503） |
+| 10-20 16:40 | 生产 → 上游 0.2.1.3 + #2985 移植 + 我们的 5 个补丁（`strata-0213-40d9a2dc`，E516/E517） | 读 prompt −0.2~−0.8%、解码在噪声内，0 停转；KL 0.034 / 0.029 对旧 0.026（逐段看是重分布不是变差） |
+| 10-21 10:17 | 两卡降压 −81 mV @245 W（E522/E523） | 37 轮 0 次翻转（card1 到 −88 就有翻转）；解码不随频率变（E507–E512） |
+| 10-22 18:47 | 生产 → 0.2.2 合并（`strata-022-34cd8534`，E527） | KL 0.028 / 0.030 对 0.031，8 段里 7 段逐位相同；速度持平 |
+| 10-23 13:27 | 生产 → 0.2.3 合并（`strata-023-b523b933`，E533），钉 `--conversation-cache-mib 0` | 0.2.3 默认开的会话缓存让单会话读 prompt −3% / −1.4%；钉住后 1,008 / 1,800 / 2,171，解码 75 / 79 / 78，与 0.2.2 持平 |
+| 10-24 | 一张 RX 6900 XT 在 Windows 11 上（[第 5 节](#5-windows-单卡rx-6900-xt)） | 官方包只改设置：16K 读 prompt 479 → 1,076、解码 28 → 42，12/12；PR [#4005](https://github.com/Niko1221/Strata/pull/4005)、[#4006](https://github.com/Niko1221/Strata/pull/4006)，报告 [#4012](https://github.com/Niko1221/Strata/pull/4012) |
 
 ## 2. 机制上学到的
 
@@ -265,6 +270,38 @@ AiBox：2× RX 6900 XT（gfx1030，各 PCIe 4.0 x8）/ Ryzen 5 5600X / 128 GB，
 - rocprofv3 下 `llama-server` 不响应 SIGINT/SIGTERM（追踪器的信号处理），追踪库其实早已落盘，白等 30 分钟。库出现后直接 SIGKILL。
 - E411 的证伪条件（"内核时间 < 墙钟 60%"）满足了，却回答不了"切哪块"；条件应写成"最大块 ≥30% 且离硬件上限 ≥25%"。
 
-## 5. 仓库里的 27B 原始材料
+## 5. Windows 单卡（RX 6900 XT）
+
+<picture>
+  <source media="(prefers-color-scheme: dark)" srcset="docs/win1x-chart-zh-dark.png">
+  <img alt="Windows 11 上一张 RX 6900 XT 一步步调优：4K / 16K 读 prompt 与 4K 解码，从默认设置到实测设置再到 #4005" src="docs/win1x-chart-zh-light.png" width="100%">
+</picture>
+
+*Strata 标准基准（`strata bench run`，三次中位，每一步都 12/12），每一步一次完整运行，原始数据在 Strata PR [#4012](https://github.com/Niko1221/Strata/pull/4012)。前六步都是官方 `rdna2` 引擎包 0.1.48 原样；最后一点（虚线）是 `main` + [#4005](https://github.com/Niko1221/Strata/pull/4005) 在本机自编、chunk 用 auto（6,144），所以 16K 低于前一点的 8,192 chunk。*
+
+第二台机器（IanLAB：i9-10900K，64 GB DDR4-3600，一张 RX 6900 XT 16 GB，PCIe 3.0 x16，Windows 11，同一个 IQ3_S 模型，64K 上下文），10-23 → 10-24。Strata 从 0.2.2 起在更新源里放了 RX 6000 的 Windows 引擎包（`windows-x86_64-hip-rdna2`），发布说明写"编了但没在真卡上试"；这里是它在真卡上的结果。**不用编译、照下面设置一键装好的脚本：[`windows-rx6000/`](windows-rx6000/)**（官方 Terminal、官方包、存一个 `strata launch` 预设）。
+
+**最后到了哪里（标准基准，官方包，只改设置）：**读 prompt 4K / 16K **452 / 479 → 586 / 1,076** tok/s，解码 **28 → 42** tok/s，短 prompt 首字 2.8 → 1.1 s，12/12。再加 #4005，4K 读到 793。对比同型号卡在 Linux 上（E540，单卡）：Windows 原来读 prompt 582 / 811（4K / 32K）、解码 36.9，Linux 944 / 1,160、47.4；调完 32K 读到 1,163，Linux 是 1,165（8,192 chunk，带拷贝事件补丁和 #3381 / #3073 的本地构建），解码 43–47。
+
+**测出来的东西，按影响大小排**
+
+- **WDDM 下每次提交约 80–120 µs（E541）。**同一个 HIP 小程序在两个系统、同型号卡上跑：背靠背拷 2.79 MB 的块，Windows 并不慢（12.5 对 14.1 GB/s，每次固定开销 5.5 µs）；但拷贝流上每记一个事件多 79 µs（Linux 3），每次跨流等待多 43 µs（Linux 约 0），一次拷贝加回调通知端到端多约 120 µs；发了 kernel 不跟一次 query，它甚至不会下发到 GPU。能缩短这笔开销的"硬件加速 GPU 计划"在 RX 6000 驱动里是 `AlwaysOff`。下面每一条都是这笔开销在不同地方出现。
+- **解码：PCIe 份额（E538、E545、E547）。**启动时的规则只按链路带宽定 PCIe 份额（12.6 GB/s → 0.35）。扫 0 / 0.1 / 0.2 / 0.3 / 0.35：0.2 是唯一的峰，解码 **+29%**。Strata 自带的运行时细化（`STRATA_PCIE_FRAC_DEFAULT=auto`，只在 gfx12 默认开）自己就收敛到 0.20，因为这台 CPU 算专家（29.4 GB/s）比链路搬得快；在 Linux 那台上它同样收敛到 0.20，解码 +1–2%。已在 [#4007](https://github.com/Niko1221/Strata/issues/4007) 提议 gfx103x 默认开。
+- **长 prompt：chunk 大小（E543、E548）。**Windows HIP 上 `--prefill auto` 卡在 6,144，因为 8,192 在一张 RX 7900 XTX、262K 上下文下崩过（[#1630](https://github.com/Niko1221/Strata/issues/1630)）。这里 8,192 六次冷启动都没出问题，其中三次是 `--max-context 262144`、27K 和 100K 的 prompt；32K 读 prompt **+17%**（流式 6 遍变 4 遍）。
+- **短 prompt：拷贝事件（E542、E544）。**读 prompt 路径每流一个专家就记一个事件、等一次释放事件，而消费端每 16 个专家一组只等一次。两个 opt-in 开关去掉其中 15/16：**4K +36.4%、32K +14.9%，10/10 对**；Linux 上输出逐字节相同、速度不变。PR [#4005](https://github.com/Niko1221/Strata/pull/4005)。
+- **显存余量。**16 GB 卡上 Windows 默认留 2,560 MiB；加载后剩下的约等于保留值减 250–340 MiB，剩下不到约 1 GiB 的运行都换页了（700：12 题 0/12）。1,536 是最低的稳定值。再多留一些代价起初不大：每多 512 MiB 少约 265 个专家槽；2,048 读 prompt 慢 1%、解码在噪声内，2,560 的 32K 解码慢 6–8%，3,072 的 4K 解码慢 7%、32K 慢 9–13%（E553，每档两次）。
+- **显示器。**两台 4K 显示器接在卡上时，桌面合成器占了 2.2 GB 显存；挪到核显后，同样的保留值下专家缓存从 3,121 槽涨到 3,672 槽，重启后卡上只剩引擎。测试时浏览器在放视频，解码掉了三分之一。
+- **看图。**包里带图片编码器；CPU 版读一张测试图 4–5 s、全对。同一个包里的 GPU 版（`strata-vision-hip.exe`）只为 gfx1200 / gfx1201 编译：设 `gpu: true` 就报 `this GPU (gfx1030) is not in the picture reader's build (gfx1200,gfx1201)`，服务直接退出，不退回 CPU 版（E554）。RX 6000 上用 `--vision cpu`。
+- **没用的：**大页（64 GB 内存拿不出 47 GB 连续的 2 MB 页，错误 1450）；Linux 上调的 rocBLAS 表（Windows 运行时全部拒绝；在 Windows 上调的表只对 ~1K 以内的新 prompt 有用，−7.6%）；`STRATA_SH_STREAM`（Windows 上解码变慢，和 KV 流式一起用会让引擎停掉，[#3895](https://github.com/Niko1221/Strata/pull/3895)）；本机自编引擎（和官方包一样快，E537）。
+
+**在这条线上犯过的错（留着，下次不再犯）**
+
+- 把 `STRATA_PREFILL_TIMING` 的读数当真了一天：它自己每个专家记一个事件，在 Windows 上让 32K 读 prompt 慢 8%，还把约 3.3 s 的等拷贝记成了"dequant"。修正是 [#4006](https://github.com/Niko1221/Strata/pull/4006)；修之前"Windows 上 dequant 慢 3 倍"是测量工具造出来的。
+- 猜 `--prefill auto` 卡在 6,144 是因为卡上槽太少借不出；引擎启动时就打印了原因（#1630）。解释一个数之前先读代码或日志。
+- 先拿专家槽数解释解码差距（E535–E537），又说份额公式缺了 WDDM 延迟（E541）；实测答案是启动时的份额没看 CPU 有多快（E545）。
+- 一组 A/B 里有三臂是在电脑上放视频时测的（解码 −33%）；现在开跑前先确认没人在用这台机器。
+- 配 GPU 图片编码器时漏了 `gpu: true`，看它跑在 CPU 上就怪 16 GB 显存不够；编码器只有被要求才会用 GPU，要求之后才看到真正的限制：它根本没为 gfx1030 编译。
+
+## 6. 仓库里的 27B 原始材料
 
 `bench/results/e410`、`e411`、`e412`：补丁 8 的 P/F 冷启动交替 A/B（脚本、报告、KLD/perf 运行）、rocprofv3 解码饼图与间隙分析（脚本及其文本输出；300–800 MB 的追踪库不含）、新旧二进制短上下文对照。

diff --git a/windows-rx6000/README.md b/windows-rx6000/README.md
@@ -45,7 +45,7 @@ the official `rdna2` package 0.1.48 unchanged. Strata's standard benchmark (`str
 | (not `STRATA_SH_STREAM`) | on Windows it slows decode and, together with KV streaming, stopped the engine ([#3895](https://github.com/Niko1221/Strata/pull/3895)) | |
 
 Pictures: the package's CPU reader answered a test image (an invoice number, an amount, two shapes) correctly in 4–5 s.
-The GPU reader (`--vision gpu`) was not measured.
+The package's GPU reader (`strata-vision-hip.exe`) is built for gfx1200 / gfx1201 only and refuses gfx1030 (`--vision gpu` stops the server), so the script uses the CPU reader.
 
 ## Before you judge the speed
 
